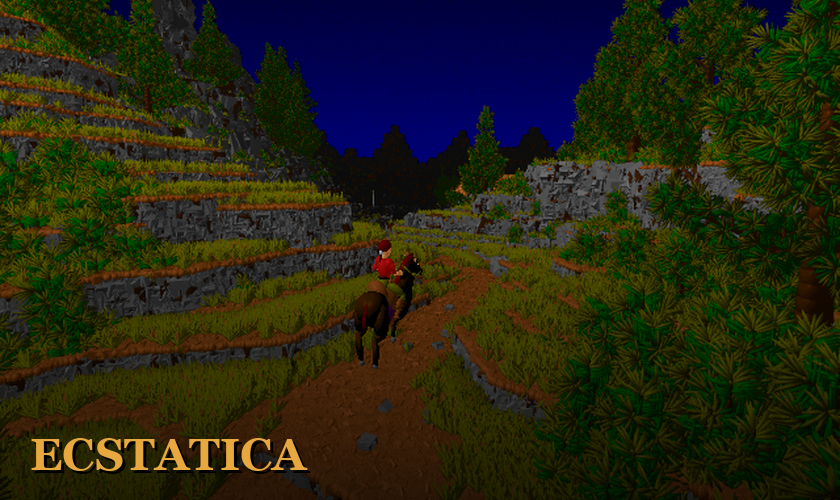
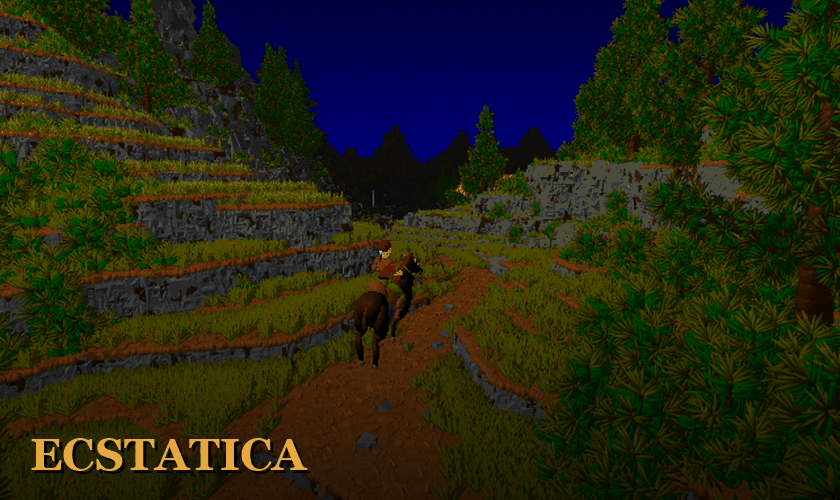
fix(vita): quantize LiveArea art to indexed PNG (VPK install error 0x8010113D)
Real Vita firmware's LiveArea installer rejects truecolor sce_sys PNGs;
Vita3K, where this build was tested, does not enforce that. icon0.png,
bg.png and startup.png are now generated as 8-bit indexed PNGs.

diff --git a/assets/generate_packaging_art.py b/assets/generate_packaging_art.py
@@ -132,12 +132,19 @@ def monogram_icon(game, w, h):
 
 
 # ---------------------------------------------------------------- Vita ----
+def quantize_for_vita(img):
+    """Real Vita firmware's LiveArea processor rejects truecolor sce_sys
+    PNGs (VitaShell install error 0x8010113D) — it needs 8-bit indexed
+    color, same as running the art through pngquant."""
+    return img.convert("P", palette=Image.ADAPTIVE, colors=256)
+
+
 def build_vita():
     for game, focus_hero in (("e1", (0.5, 0.55)), ("e2", (0.5, 0.40))):
         d = f"{ROOT}/vita/sce_sys/{game}"
-        save(key_art(game, 840, 500, focus_hero), f"{d}/livearea/contents/bg.png")
-        save(key_art(game, 280, 158, focus_hero), f"{d}/livearea/contents/startup.png")
-        save(monogram_icon(game, 128, 128), f"{d}/icon0.png")
+        save(quantize_for_vita(key_art(game, 840, 500, focus_hero)), f"{d}/livearea/contents/bg.png")
+        save(quantize_for_vita(key_art(game, 280, 158, focus_hero)), f"{d}/livearea/contents/startup.png")
+        save(quantize_for_vita(monogram_icon(game, 128, 128)), f"{d}/icon0.png")
 
 
 # ----------------------------------------------------------------- PSP ----

diff --git a/CHANGELOG.md b/CHANGELOG.md
@@ -6,6 +6,14 @@ All notable changes to this project are documented in this file.
 
 Nothing yet.
 
+## [0.8.1] - 2026-09-30
+
+### Fixed
+- Vita VPKs failed to install on real hardware (error 0x8010113D): the
+  LiveArea `icon0.png`/`bg.png`/`startup.png` were truecolor PNGs, which
+  Vita3K accepts but real firmware's LiveArea installer rejects. They are
+  now generated as 8-bit indexed PNGs.
+
 ## [0.8.0] - 2026-09-30
 
 ### Added
